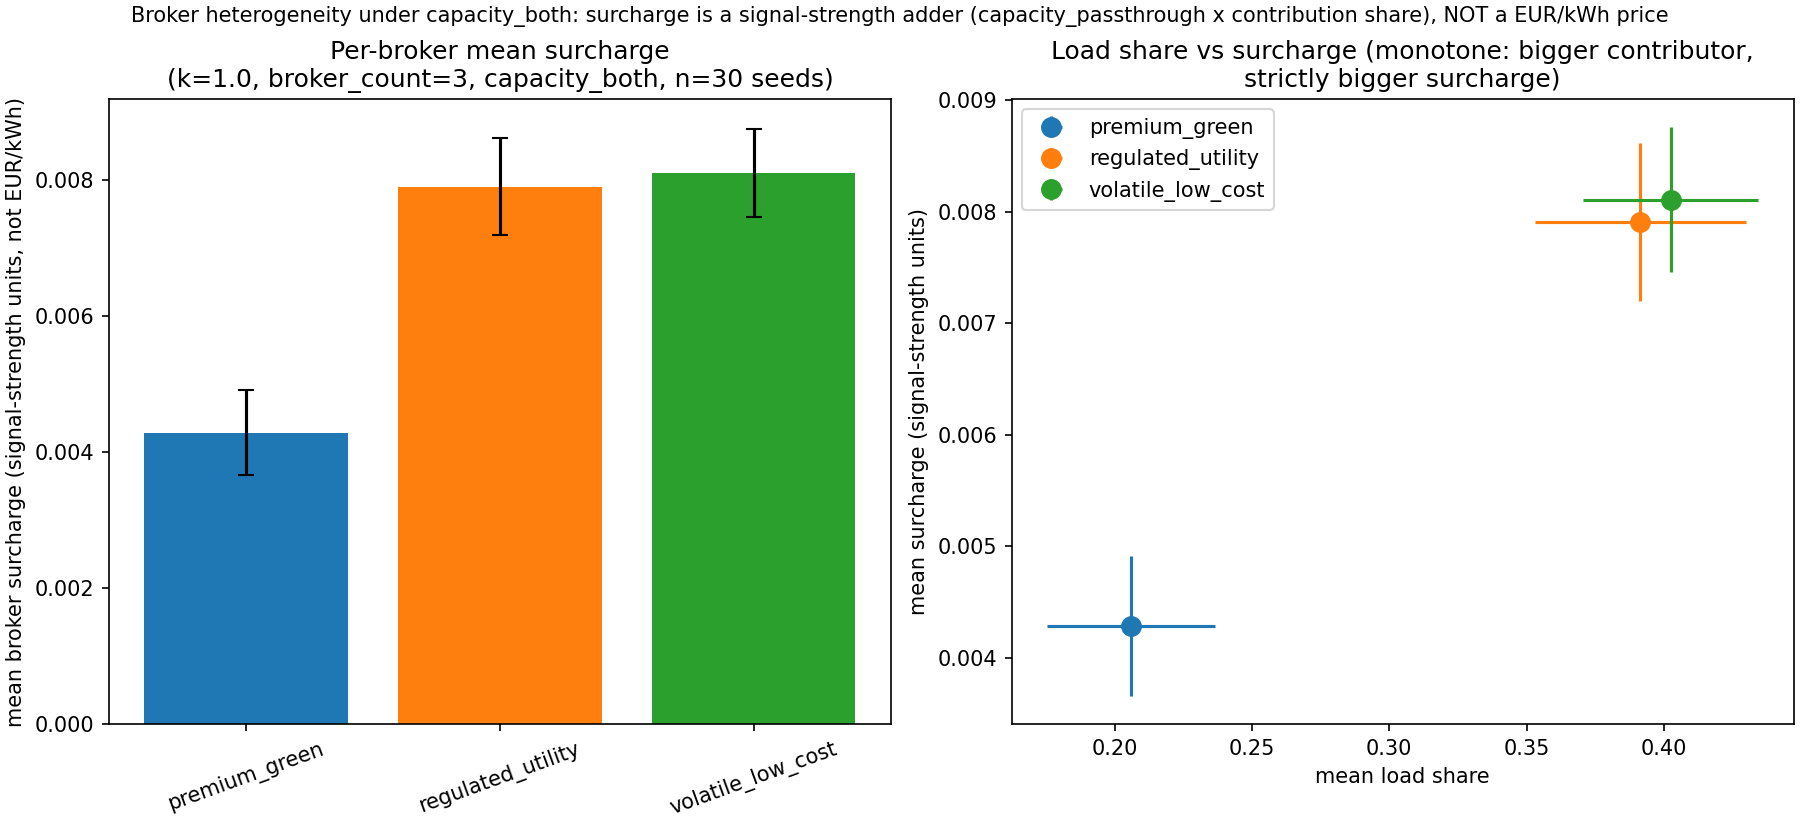
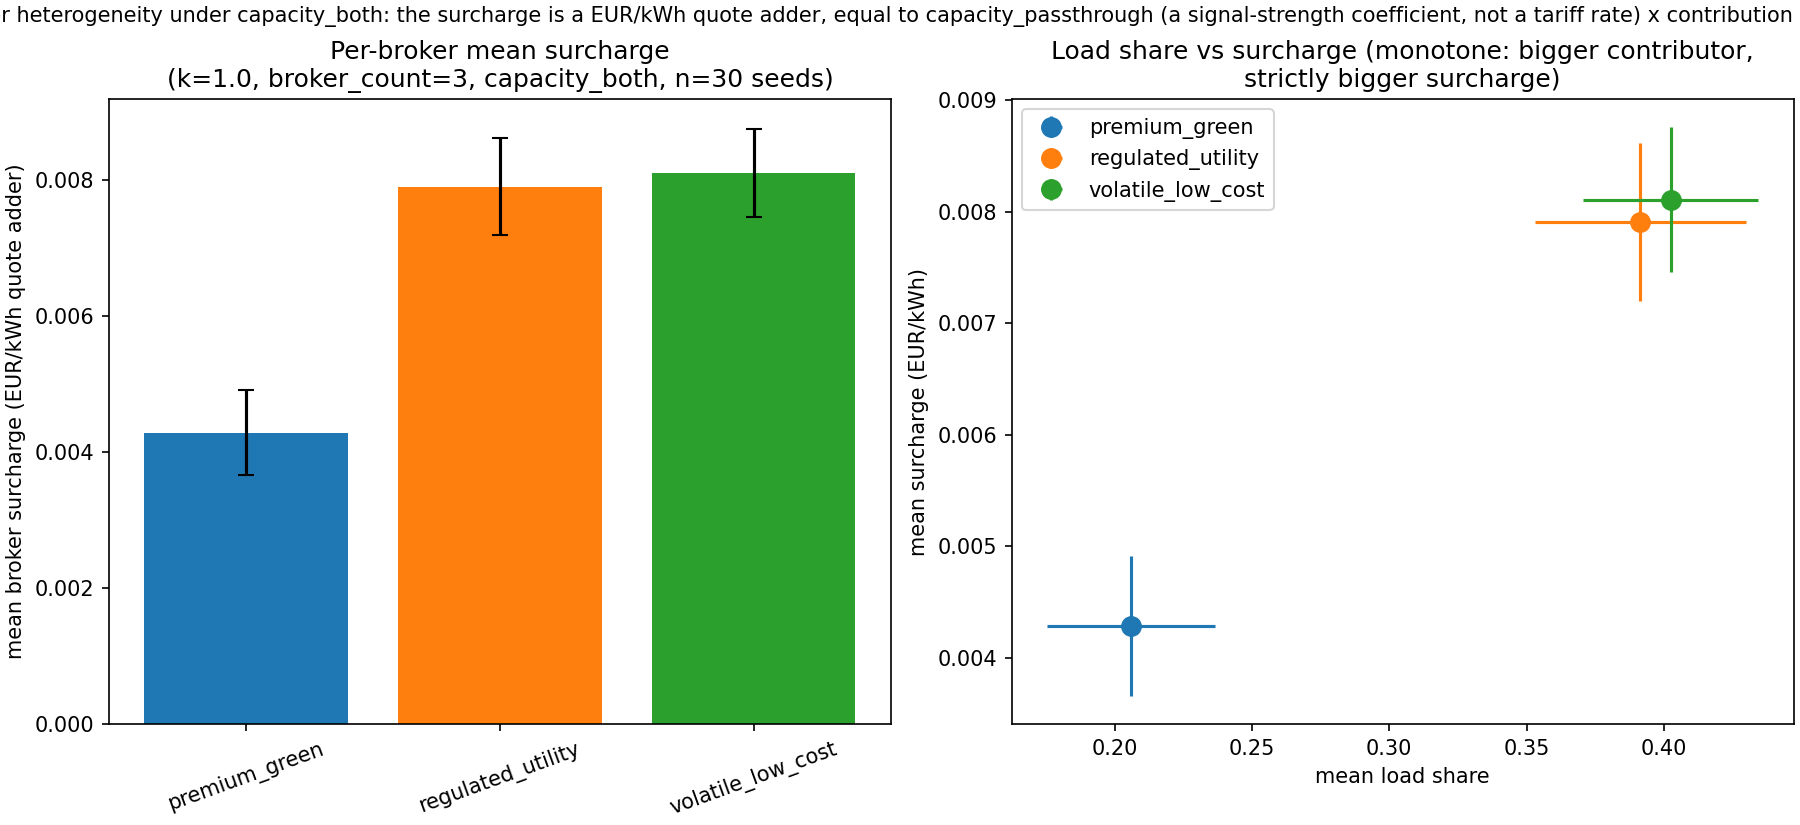
figures: the per-broker surcharge is a EUR/kWh quote adder, label it as one
The heterogeneity figure carried three strings asserting the opposite of the
project's own terminology rule: it labelled the plotted surcharge as
'signal-strength units, not EUR/kWh' and captioned it 'NOT a EUR/kWh price'.
The plotted values come from mean_broker_surcharge_eur_per_kwh, and Chapter 4
defines the surcharge as 'a per-broker surcharge, in EUR/kWh, added to broker
b's quote'.

The rule is about capacity_passthrough, which is a dimensionless
signal-strength coefficient and must never be called a tariff rate. The
surcharge it produces genuinely is in EUR/kWh. The figure had the distinction
backwards.

This mattered beyond pedantry: defense_slides.md names this exact PNG as the
projector-failure fallback for the surcharge-heterogeneity claim, so a
committee member could have read 'NOT a EUR/kWh price' off the screen while
the chapter said 'in EUR/kWh'.

Figure regenerated. Verified the regeneration did not alter any input CSV:
tests/test_golden_master.py's pinned digest of summary_stats.csv still passes.

Changed region(s): [[0.0, 0.0, 0.9956, 0.0303], [0.0, 0.1212, 0.0311, 0.8788], [0.4978, 0.2727, 0.5289, 0.7273]]

diff --git a/scripts/analyze_sweep.py b/scripts/analyze_sweep.py
@@ -823,7 +823,7 @@ def plot_broker_heterogeneity(df: pd.DataFrame) -> None:
     ax_bar.bar(x, surcharge_mean.to_numpy(), yerr=surcharge_std.to_numpy(), capsize=4, color=_DEFAULT_COLORS[: len(broker_order)])
     ax_bar.set_xticks(x)
     ax_bar.set_xticklabels(broker_order, rotation=20)
-    ax_bar.set_ylabel("mean broker surcharge (signal-strength units, not EUR/kWh)")
+    ax_bar.set_ylabel("mean broker surcharge (EUR/kWh quote adder)")
     ax_bar.set_title(f"Per-broker mean surcharge\n(k={k_ref}, broker_count={bc_ref}, {ablation_ref}, n={len(sub)} seeds)")
 
     for i, broker in enumerate(broker_order):
@@ -838,13 +838,13 @@ def plot_broker_heterogeneity(df: pd.DataFrame) -> None:
             label=broker,
         )
     ax_scatter.set_xlabel("mean load share")
-    ax_scatter.set_ylabel("mean surcharge (signal-strength units)")
+    ax_scatter.set_ylabel("mean surcharge (EUR/kWh)")
     ax_scatter.set_title("Load share vs surcharge (monotone: bigger contributor,\nstrictly bigger surcharge)")
     ax_scatter.legend()
 
     fig.suptitle(
-        "Broker heterogeneity under capacity_both: surcharge is a signal-strength adder "
-        "(capacity_passthrough x contribution share), NOT a EUR/kWh price",
+        "Broker heterogeneity under capacity_both: the surcharge is a EUR/kWh quote adder, "
+        "equal to capacity_passthrough (a signal-strength coefficient, not a tariff rate) x contribution share",
         fontsize=10,
     )
     fig.savefig(PLOTS_DIR / "fig_broker_heterogeneity.png", dpi=150)
